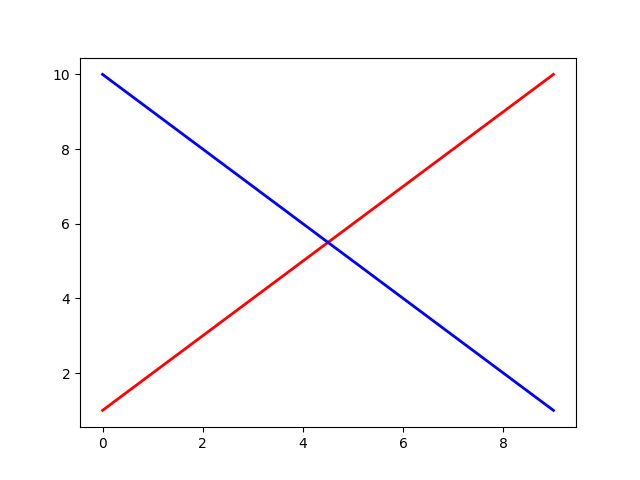
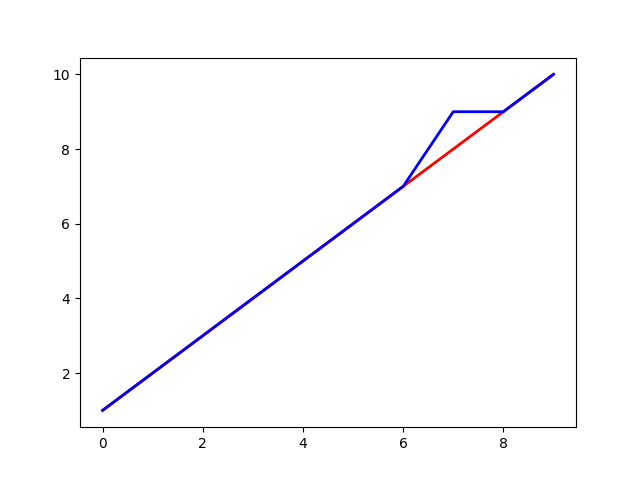
pareto function done

diff --git a/Assignment 2/solution.py b/Assignment 2/solution.py
@@ -5,21 +5,23 @@ import math
 import time
 import sys
 
+# if all u[i] <= v[i] and atleast 1 u[i] < v[i]
 def paretoDominant(u, v):
-    
-    strict = False
+    strict = 0
     for i, j in zip(u, v):
         if i > j:
             return False
         if i < j:
-            strict = True
-    return True, Scrict
+            strict = 1
+    return strict == 1
 
 def exportPlot(u, v, ofile):
     plt.plot(u, color='r', lw='2')
     plt.plot(v, color='b', lw='2')
     plt.savefig(ofile)
 
+######################## MAIN ###########################
 u = [1, 2, 3, 4, 5, 6, 7, 8, 9, 10]
-v = [10, 9, 8, 7, 6, 5, 4, 3, 2, 1]
+v = [1, 2, 3, 4, 5, 6, 7, 9, 9, 10]
 exportPlot(u, v, 'output.png')
+print paretoDominant(u, v)
